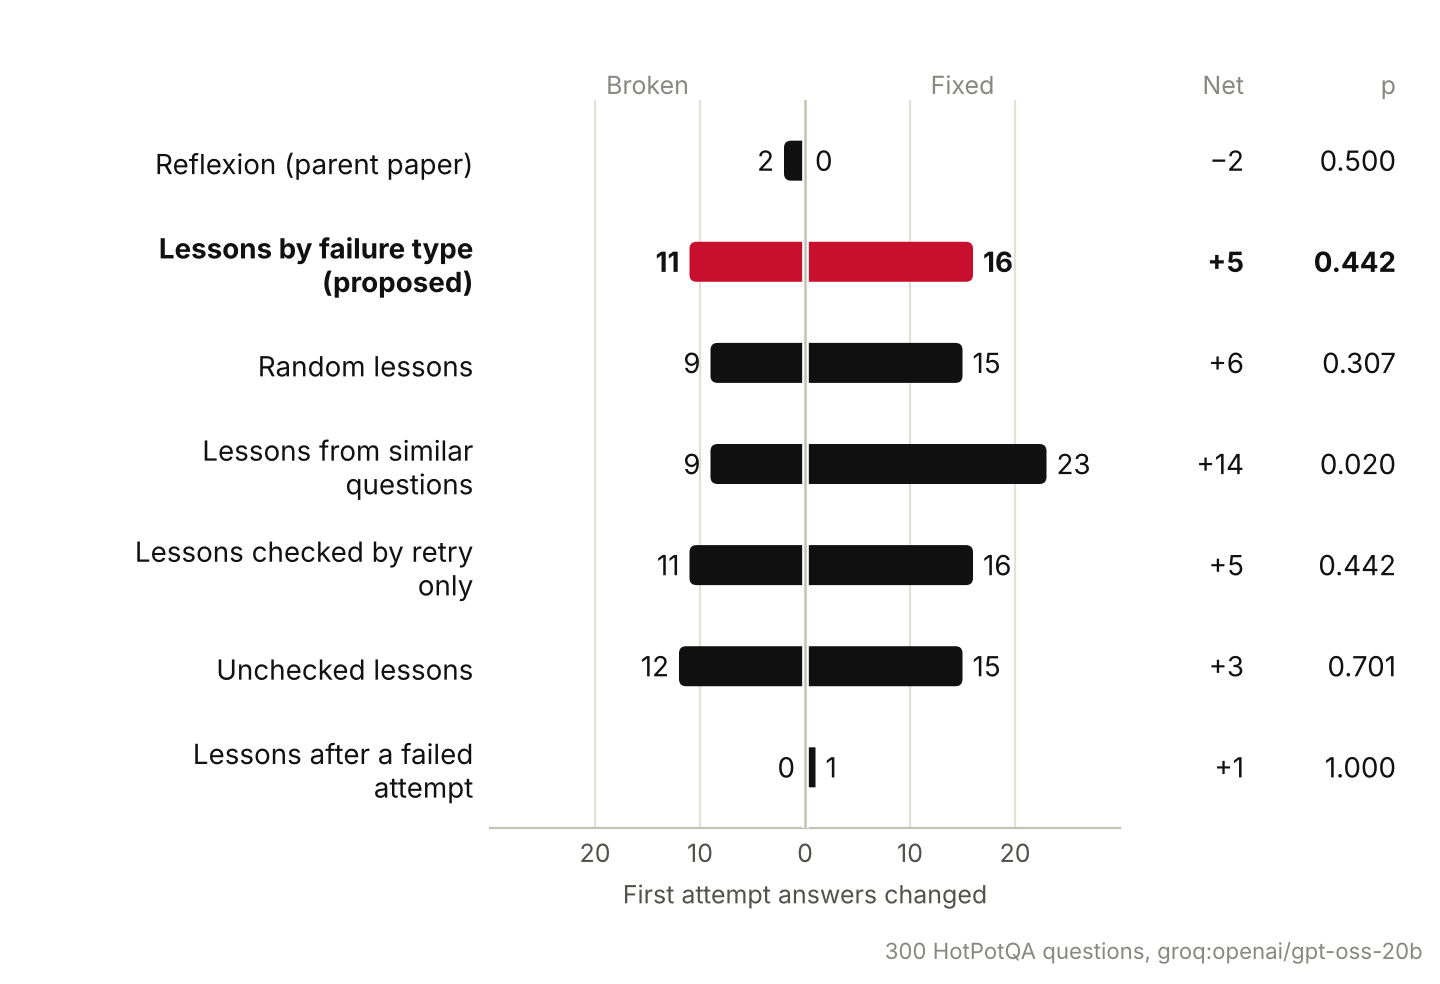
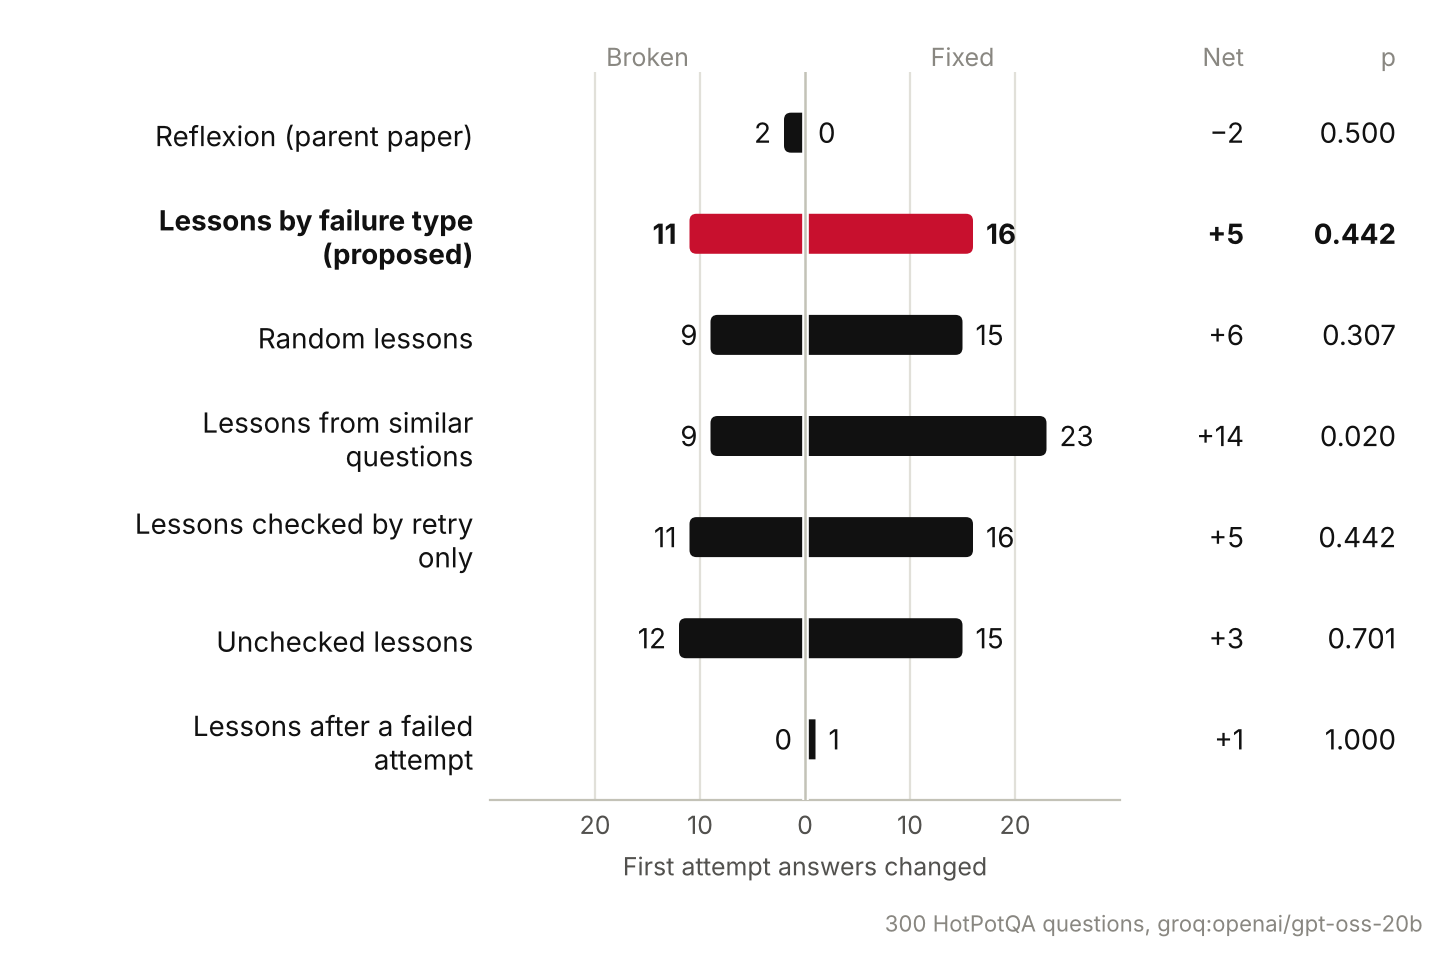
Fixed and broken figure: less empty space above it, value labels clear of the bar ends

diff --git a/src/reflexion_reproduction/figures.py b/src/reflexion_reproduction/figures.py
@@ -324,9 +324,9 @@ def plot_attempts(report: dict, path: Path, layout: str = "wide") -> bool:
 
 
 FLIP_LAYOUTS = {
-    "wide": dict(width=7.2, row=0.52, left=2.45, right=1.6, top=0.5, bottom=0.78, wrap=24,
+    "wide": dict(width=7.2, row=0.52, left=2.45, right=1.6, top=0.36, bottom=0.78, wrap=24,
                  label=10, number=10, small=9, note=8, bar=0.2, net_column=0.62, p_column=1.38),
-    "column": dict(width=3.45, row=0.3, left=1.2, right=0.8, top=0.36, bottom=0.58, wrap=19,
+    "column": dict(width=3.45, row=0.3, left=1.2, right=0.8, top=0.24, bottom=0.58, wrap=19,
                    label=7, number=7, small=6.5, note=5.5, bar=0.115, net_column=0.3, p_column=0.7),
 }
 
@@ -369,7 +369,7 @@ def plot_fixed_broken(report: dict, path: Path, layout: str = "wide") -> bool:
         fixed, broken = comp["fail_to_pass"], comp["pass_to_fail"]
         _bar(ax, 0, fixed, y, size["bar"] * per_y, color)
         _bar(ax, 0, -broken, y, size["bar"] * per_y, color)
-        offset = 0.05 * per_x
+        offset = 0.065 * per_x
         weight = "bold" if row["condition"] == PROPOSED else "normal"
         ax.text(fixed + offset, y, str(fixed), ha="left", va="center", fontsize=size["number"],
                 color=INK, fontweight=weight)
